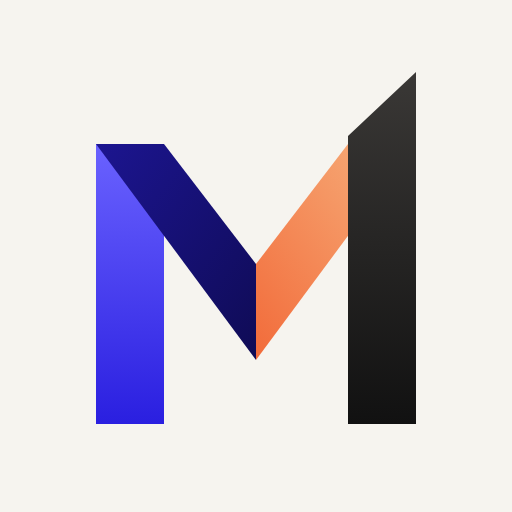
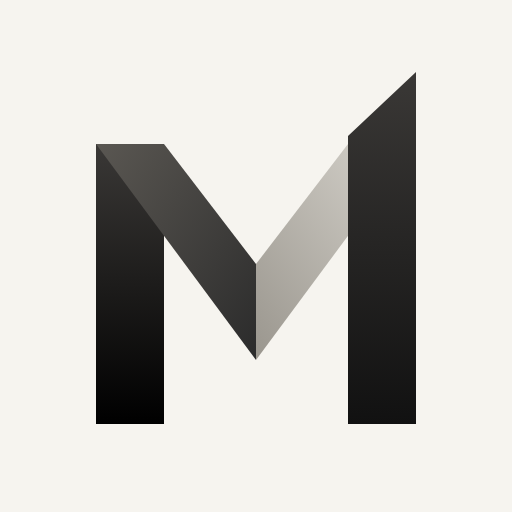
Max Marketing: go strictly black and white
Replace all colour accents with ink black, white and greys: highlight
words, chrome 3D blob, graphite shader field, path tiles, team shapes,
deliverable cards, inverted promise band, 404 and the logo/brand PNGs.

Claude-Session: https://claude.ai/code/session_015zP6EYRXjoebpqSR4X5BJk

Changed region(s): [[0.1875, 0.2812, 0.6875, 0.8438]]

diff --git a/max-marketing-site/index.html b/max-marketing-site/index.html
@@ -18,11 +18,11 @@
 <link rel="preconnect" href="https://fonts.gstatic.com" crossorigin>
 <link href="https://fonts.googleapis.com/css2?family=Alexandria:wght@500;700;800&family=IBM+Plex+Sans+Arabic:wght@300;400;500;600&family=Space+Grotesk:wght@400;500;700&display=swap" rel="stylesheet">
 <style>
-/* Look: gallery-white paper, ink-black type, a watercolour field and a confetti of bold accents (electric blue, tangerine, butter, sky, blush, sage) */
+/* Look: strictly monochrome — gallery-white paper, ink-black type, greys for depth, a chrome blob over a soft graphite field */
 :root{
   --ink:#f6f4ef; --ink-2:#ffffff; --card:#ffffff; --line:rgba(17,17,17,.1);
-  --lime:#3b2ff5; --mint:#f26b3a; --teal:#6cb8ec;
-  --butter:#f3e38a; --blush:#f2c4d8; --peach:#f4b17a; --sage:#a8bf8a;
+  --lime:#8a8680; --mint:#2b2b2b; --teal:#c9c6be;
+  --butter:#ecebe6; --blush:#e3e1db; --peach:#d9d6cf; --sage:#c9c6be;
   --text:#111111; --mute:#6b6862;
   --glass:rgba(255,255,255,.6); --glass-hi:rgba(17,17,17,.08);
   --d-ar:"Alexandria","IBM Plex Sans Arabic",Tahoma,sans-serif;
@@ -37,7 +37,7 @@ html[lang=en] body{font-family:var(--en)}
 html[lang=ar] [data-l=en],html[lang=en] [data-l=ar]{display:none!important}
 img{max-width:100%;display:block}
 a{color:inherit;text-decoration:none}
-:focus-visible{outline:2px solid var(--lime);outline-offset:3px;border-radius:8px}
+:focus-visible{outline:2px solid var(--text);outline-offset:3px;border-radius:8px}
 .wrap{max-width:1200px;margin-inline:auto;padding-inline:max(16px,env(safe-area-inset-left,0px))}
 .disp{font-family:var(--d-ar);font-weight:800;line-height:1.15;letter-spacing:-.01em;margin:0}
 html[lang=en] .disp{font-family:var(--en);font-weight:700;letter-spacing:-.035em}
@@ -79,8 +79,7 @@ html[lang=en] .sheet a{font-family:var(--en)}
 /* hero */
 .hero{min-height:100svh;display:flex;align-items:center;padding-top:120px;overflow:hidden}
 .hero h1{font-size:clamp(46px,7.4vw,112px)}
-.hero h1 .glass-word{display:inline-block;padding:0 .18em;border-radius:.28em;background:linear-gradient(180deg,rgba(255,255,255,.85),rgba(255,255,255,.45));
-  border:1px solid rgba(255,255,255,.9);-webkit-backdrop-filter:blur(10px);backdrop-filter:blur(10px);color:var(--lime);box-shadow:inset 0 1px 0 #fff,0 10px 30px rgba(59,47,245,.12)}
+.hero h1 .glass-word{display:inline-block;padding:0 .18em;border-radius:.28em;background:var(--text);border:0;color:#fff;box-shadow:0 14px 34px rgba(17,17,17,.18)}
 .hero p.lead{max-width:600px;font-size:clamp(17px,1.6vw,20px);color:#3d3b37;margin:26px 0 34px}
 .btns{display:flex;flex-wrap:wrap;gap:12px}
 .btn{display:inline-flex;align-items:center;gap:10px;padding:15px 26px;border-radius:999px;font-weight:600;font-size:16px;transition:transform .25s,box-shadow .25s}
@@ -111,11 +110,11 @@ html[lang=en] .mq-t{animation-name:mq-en}
 @media (max-width:620px){.grid{grid-template-columns:1fr}}
 .card{position:relative;padding:28px;border-radius:24px;background:var(--card);
   border:1px solid var(--line);overflow:hidden;transition:border-color .3s,transform .3s}
-.card::before{content:"";position:absolute;inset:-1px;background:radial-gradient(400px circle at var(--mx,50%) var(--my,0%),rgba(59,47,245,.07),transparent 45%);opacity:0;transition:opacity .3s;pointer-events:none}
+.card::before{content:"";position:absolute;inset:-1px;background:radial-gradient(400px circle at var(--mx,50%) var(--my,0%),rgba(17,17,17,.05),transparent 45%);opacity:0;transition:opacity .3s;pointer-events:none}
 .card:hover{border-color:rgba(17,17,17,.25);box-shadow:0 20px 50px rgba(17,17,17,.08);transform:translateY(-3px)}
 .card:hover::before{opacity:1}
 .card .ic{width:48px;height:48px;border-radius:14px;display:grid;place-items:center;background:var(--pc,var(--butter));color:var(--text);margin-bottom:22px}
-.card:nth-child(6n+2) .ic{--pc:var(--blush)}.card:nth-child(6n+3) .ic{--pc:var(--teal)}.card:nth-child(6n+4) .ic{--pc:var(--sage)}.card:nth-child(6n+5) .ic{--pc:var(--peach)}.card:nth-child(6n+6) .ic{--pc:#c9c2f5}
+.card:nth-child(6n+2) .ic{--pc:var(--blush)}.card:nth-child(6n+3) .ic{--pc:var(--teal)}.card:nth-child(6n+4) .ic{--pc:var(--sage)}.card:nth-child(6n+5) .ic{--pc:var(--peach)}.card:nth-child(6n+6) .ic{--pc:#111;color:#fff}
 .card h3{font-family:var(--d-ar);font-size:22px;margin:0 0 8px}
 html[lang=en] .card h3{font-family:var(--en)}
 .card p{margin:0;color:var(--mute);font-size:15.5px}
@@ -154,8 +153,8 @@ html[lang=en] .fc h4{font-family:var(--en)}
 .cal i::after{content:"";width:7px;height:7px;border-radius:50%;background:var(--d,transparent)}
 .lgd{display:flex;gap:12px;flex-wrap:wrap;color:var(--mute);font-size:12px}
 .lgd b{display:inline-block;width:8px;height:8px;border-radius:50%;margin-inline-end:6px;background:var(--d)}
-.fc.c{background:radial-gradient(120% 75% at 25% 10%,#f4b17a,#f2c4d8 35%,#3b2ff5 80%);padding:0;color:#fff}
-.fc.c::before{content:"";position:absolute;inset:0;background:radial-gradient(60% 40% at 70% 70%,rgba(108,184,236,.75),transparent 70%);animation:drift 7s ease-in-out infinite alternate}
+.fc.c{background:radial-gradient(120% 75% at 25% 10%,#f6f4ef,#9a968e 40%,#111 85%);padding:0;color:#fff}
+.fc.c::before{content:"";position:absolute;inset:0;background:radial-gradient(60% 40% at 70% 70%,rgba(255,255,255,.45),transparent 70%);animation:drift 7s ease-in-out infinite alternate}
 @keyframes drift{to{transform:translate(-18%,-22%) scale(1.2)}}
 .reel{position:relative;height:100%;padding:18px;display:flex;flex-direction:column;justify-content:space-between}
 .reel .top{display:flex;justify-content:space-between;align-items:center}
@@ -167,12 +166,12 @@ html[lang=en] .fc h4{font-family:var(--en)}
 .reel .cap span{height:8px;border-radius:4px;background:rgba(255,255,255,.75)}
 .reel .cap span+span{width:65%;background:rgba(255,255,255,.45)}
 .bars{flex:1;display:flex;align-items:flex-end;gap:8px;padding-top:10px;border-bottom:1px solid var(--line)}
-.bars i{flex:1;height:var(--v);border-radius:6px 6px 2px 2px;background:var(--bc,var(--lime));transform-origin:bottom;animation:grow 1.4s cubic-bezier(.2,.7,.2,1) both;animation-delay:calc(var(--n)*.08s)}
+.bars i{flex:1;height:var(--v);border-radius:6px 6px 2px 2px;background:var(--bc,#111);transform-origin:bottom;animation:grow 1.4s cubic-bezier(.2,.7,.2,1) both;animation-delay:calc(var(--n)*.08s)}
 @keyframes grow{from{transform:scaleY(.1)}}
 .kpi{display:grid;grid-template-columns:repeat(3,1fr);gap:8px}
 .kpi div{padding:8px;border-radius:10px;background:#f1efe9;color:var(--mute);font-size:11px}
-.kpi div b{display:block;height:6px;border-radius:3px;margin-top:6px;background:linear-gradient(90deg,var(--lime),transparent)}
-.bars i:nth-child(3n+2){--bc:var(--peach)}.bars i:nth-child(3n){--bc:var(--teal)}
+.kpi div b{display:block;height:6px;border-radius:3px;margin-top:6px;background:linear-gradient(90deg,#111,transparent)}
+.bars i:nth-child(3n+2){--bc:#9a968e}.bars i:nth-child(3n){--bc:#cfccc5}
 @media (max-width:620px){.fc.l{--x:-6%}.fc.r{--x:-6%}.fan{height:400px}}
 
 /* team — portraits in playful shapes */
@@ -184,7 +183,7 @@ html[lang=en] .fc h4{font-family:var(--en)}
 .shape{position:relative;aspect-ratio:4/5;background:var(--bg);display:grid;place-items:end center;overflow:hidden;transition:transform .5s cubic-bezier(.2,.7,.2,1)}
 .mate:hover .shape{transform:translateY(-6px) rotate(-1.5deg)}
 .shape img{width:100%;height:100%;object-fit:cover}
-.shape svg{width:72%;height:auto;color:rgba(17,17,17,.28);transform:translateY(8%)}
+.shape svg{width:72%;height:auto;color:var(--fg,rgba(17,17,17,.28));transform:translateY(8%)}
 .mate h3{margin:18px 0 4px;font-family:var(--d-ar);font-size:20px}
 html[lang=en] .mate h3{font-family:var(--en)}
 .mate p{margin:0;color:var(--mute);font-size:14px}
@@ -200,20 +199,20 @@ html[lang=en] .step h3{font-family:var(--en)}
 .step p{margin:0;color:var(--mute);font-size:15px}
 
 /* promise band */
-.band{border-radius:32px;padding:clamp(28px,5vw,56px);background:linear-gradient(135deg,var(--butter),#f7d7c2 55%,var(--blush));border:0;
+.band{border-radius:32px;padding:clamp(28px,5vw,56px);background:#111;color:#f6f4ef;border:0;
   display:grid;grid-template-columns:1.1fr 1fr;gap:36px;align-items:center}
 @media (max-width:820px){.band{grid-template-columns:1fr}}
 .band h2{font-size:clamp(30px,4vw,48px)}
 .band ul{list-style:none;margin:0;padding:0;display:grid;gap:12px}
-.band li{display:flex;gap:12px;align-items:flex-start;padding:14px 16px;border-radius:16px;background:rgba(255,255,255,.7);border:1px solid rgba(255,255,255,.9)}
-.band li b{color:var(--lime);font-family:var(--en)}
+.band li{display:flex;gap:12px;align-items:flex-start;padding:14px 16px;border-radius:16px;background:rgba(255,255,255,.06);border:1px solid rgba(255,255,255,.12)}
+.band li b{color:#fff;font-family:var(--en)}
 
 /* faq */
 .faq{max-width:860px;margin-inline:auto}
 details{border-bottom:1px solid var(--line);padding:6px 0}
 summary{list-style:none;cursor:pointer;display:flex;justify-content:space-between;gap:16px;padding:18px 0;font-size:19px;font-weight:600}
 summary::-webkit-details-marker{display:none}
-summary::after{content:"+";font-family:var(--en);color:var(--lime);font-size:24px;line-height:1;transition:transform .3s}
+summary::after{content:"+";font-family:var(--en);color:var(--text);font-size:24px;line-height:1;transition:transform .3s}
 details[open] summary::after{transform:rotate(45deg)}
 details p{margin:0 0 18px;color:var(--mute)}
 
@@ -227,17 +226,17 @@ details p{margin:0 0 18px;color:var(--mute)}
 .form input,.form select,.form textarea{font:inherit;color:var(--text);background:#f6f4ef;border:1px solid var(--line);border-radius:14px;padding:13px 14px;width:100%}
 .form select option{background:#fff}
 .form textarea{min-height:110px;resize:vertical}
-.form input:focus,.form select:focus,.form textarea:focus{outline:none;border-color:var(--lime)}
+.form input:focus,.form select:focus,.form textarea:focus{outline:none;border-color:var(--text)}
 .chips{display:flex;flex-wrap:wrap;gap:8px}
 .chips label{display:block}
 .chips input{position:absolute;opacity:0;width:1px;height:1px}
 .chips span{display:inline-block;padding:8px 14px;border-radius:999px;border:1px solid var(--line);font-size:14px;color:var(--text);cursor:pointer;transition:.2s}
 .chips input:checked+span{background:var(--text);color:#fff;border-color:var(--text)}
-.chips input:focus-visible+span{outline:2px solid var(--lime);outline-offset:2px}
+.chips input:focus-visible+span{outline:2px solid var(--text);outline-offset:2px}
 .form .btn{justify-content:center;border:0;cursor:pointer;font:inherit;font-weight:600}
 .direct{display:grid;gap:10px;margin-top:28px}
 .direct a{display:flex;align-items:center;gap:12px;padding:14px 18px;border-radius:16px;border:1px solid var(--line);background:var(--card);transition:border-color .25s}
-.direct a:hover{border-color:var(--lime)}
+.direct a:hover{border-color:var(--text)}
 .direct small{color:var(--mute);display:block;font-size:12px}
 
 footer{border-top:1px solid var(--line);padding:32px 0 calc(32px + env(safe-area-inset-bottom,0px));color:var(--mute);font-size:14px}
@@ -249,9 +248,9 @@ footer .wrap{display:flex;justify-content:space-between;gap:16px;flex-wrap:wrap;
 .pre.done{clip-path:inset(0 0 100% 0);pointer-events:none}
 .pre .pc{font-family:var(--en);font-size:clamp(64px,14vw,180px);font-weight:700;letter-spacing:-.05em;line-height:1}
 .pre .pb{position:absolute;bottom:40px;left:16px;right:16px;height:2px;background:var(--line)}
-.pre .pb i{display:block;height:100%;width:0;background:var(--lime);transition:width .2s}
+.pre .pb i{display:block;height:100%;width:0;background:var(--text);transition:width .2s}
 .pre .lg{width:72px;height:auto;animation:lgp 1.1s ease-in-out infinite alternate}
-@keyframes lgp{to{transform:translateY(-8px) scale(1.06);filter:drop-shadow(0 10px 30px rgba(59,47,245,.35))}}
+@keyframes lgp{to{transform:translateY(-8px) scale(1.06);filter:drop-shadow(0 10px 30px rgba(17,17,17,.25))}}
 .pre .pl{position:absolute;top:30px;font-family:var(--en);letter-spacing:.3em;font-size:12px;color:var(--mute)}
 
 /* 3D hero object */
@@ -284,7 +283,7 @@ html[lang=en] .hpanel h3{font-family:var(--en)}
 .hpanel p{margin:0;color:var(--mute);max-width:380px}
 .hpanel .glow{position:absolute;width:320px;height:320px;border-radius:50%;filter:blur(60px);opacity:.45;top:-80px;inset-inline-start:-80px;background:var(--c,var(--lime))}
 .hprog{position:absolute;bottom:32px;left:50%;transform:translateX(-50%);width:min(320px,60vw);height:2px;background:var(--line);border-radius:2px;overflow:hidden}
-.hprog i{display:block;height:100%;width:100%;background:var(--lime);transform:scaleX(0);transform-origin:right}
+.hprog i{display:block;height:100%;width:100%;background:var(--text);transform:scaleX(0);transform-origin:right}
 html[lang=en] .hprog i{transform-origin:left}
 @media (max-width:760px),(prefers-reduced-motion:reduce){
   #process{padding-block:72px}
@@ -295,10 +294,10 @@ html[lang=en] .hprog i{transform-origin:left}
 }
 
 /* cursor */
-.cur{position:fixed;top:0;left:0;z-index:120;width:14px;height:14px;margin:-7px 0 0 -7px;border-radius:50%;background:var(--lime);pointer-events:none;
+.cur{position:fixed;top:0;left:0;z-index:120;width:14px;height:14px;margin:-7px 0 0 -7px;border-radius:50%;background:#fff;pointer-events:none;mix-blend-mode:difference;
   transition:width .3s,height .3s,margin .3s,background .3s;display:grid;place-items:center;font-family:var(--en);font-size:11px;font-weight:700;color:#fff;letter-spacing:.1em;opacity:.92}
 .cur.big{width:64px;height:64px;margin:-32px 0 0 -32px}
-.cur.drag{width:84px;height:84px;margin:-42px 0 0 -42px;mix-blend-mode:normal}
+.cur.drag{width:84px;height:84px;margin:-42px 0 0 -42px;mix-blend-mode:normal;background:#111}
 @media (pointer:coarse){.cur{display:none}}
 
 /* reveal */
@@ -399,7 +398,7 @@ html[lang=en] .hprog i{transform-origin:left}
           <small>CONTENT PLAN</small>
           <h4><span data-l="ar">خطة الشهر</span><span data-l="en">This month's plan</span></h4>
           <div class="cal" id="cal"></div>
-          <div class="lgd"><span style="--d:#3b2ff5"><b></b><span data-l="ar">ريلز</span><span data-l="en">Reel</span></span><span style="--d:#f26b3a"><b></b><span data-l="ar">بوست</span><span data-l="en">Post</span></span><span style="--d:#6cb8ec"><b></b><span data-l="ar">ستوري</span><span data-l="en">Story</span></span></div>
+          <div class="lgd"><span style="--d:#111"><b></b><span data-l="ar">ريلز</span><span data-l="en">Reel</span></span><span style="--d:#9a968e"><b></b><span data-l="ar">بوست</span><span data-l="en">Post</span></span><span style="--d:#cfccc5"><b></b><span data-l="ar">ستوري</span><span data-l="en">Story</span></span></div>
         </article>
         <article class="fc c">
           <div class="reel">
@@ -435,7 +434,7 @@ html[lang=en] .hprog i{transform-origin:left}
     </div>
     <div class="pm" id="pm" data-drag role="region" aria-label="Channels and services">
       <div class="pm-box" id="pmBox">
-        <svg viewBox="0 0 996 330" aria-hidden="true"><defs><linearGradient id="pmG" x1="0" x2="1"><stop offset="0" stop-color="#6cb8ec"/><stop offset="1" stop-color="#f26b3a"/></linearGradient></defs>
+        <svg viewBox="0 0 996 330" aria-hidden="true"><defs><linearGradient id="pmG" x1="0" x2="1"><stop offset="0" stop-color="#111"/><stop offset="1" stop-color="#9a968e"/></linearGradient></defs>
           <path class="pm-glow" d="M1 209.434C58.5872 255.935 387.926 325.938 482.583 209.434C600.905 63.8051 525.516 -43.2211 427.332 19.9613C329.149 83.1436 352.902 242.723 515.041 267.302C644.752 286.966 943.56 181.94 995 156.5"/><path class="pm-line" id="pmLine" d="M1 209.434C58.5872 255.935 387.926 325.938 482.583 209.434C600.905 63.8051 525.516 -43.2211 427.332 19.9613C329.149 83.1436 352.902 242.723 515.041 267.302C644.752 286.966 943.56 181.94 995 156.5"/></svg>
       </div>
     </div>
@@ -586,7 +585,7 @@ const MQ = [T("سوشيال ميديا","Social Media"),T("ريلز","Reels"),T(
 
 const $ = id => document.getElementById(id);
 $("svc").innerHTML = SERVICES.map(([ic,h,p],i)=>`<article class="card rv"><span class="n">0${i+1}</span><div class="ic"><svg width="24" height="24" viewBox="0 0 24 24" fill="none" stroke="currentColor" stroke-width="1.8" stroke-linejoin="round" stroke-linecap="round">${ICON[ic]}</svg></div><h3>${both(h)}</h3><p>${both(p)}</p></article>`).join("");
-const GLOW = ["#3b2ff5","#f26b3a","#6cb8ec","#f3e38a"];
+const GLOW = ["#111","#9a968e","#cfccc5","#5a5752"];
 $("htrack").insertAdjacentHTML("beforeend", STEPS.map(([h,p],i)=>`<article class="hpanel" style="--c:${GLOW[i]}"><span class="glow"></span><span class="big">0${i+1}</span><h3>${both(h)}</h3><p>${both(p)}</p></article>`).join(""));
 $("promise").innerHTML = PROMISE.map(x=>`<li>${both(x)}</li>`).join("");
 $("faqList").innerHTML = FAQ.map(([q,a])=>`<details class="rv"><summary>${both(q)}</summary><p>${both(a)}</p></details>`).join("");
@@ -655,17 +654,17 @@ $("leadForm").addEventListener("submit", e => {
 });
 
 /* deliverables calendar: a believable month of reels / posts / stories */
-$("cal").innerHTML = Array.from({length:28}, (_, i) => `<i style="--d:${["#3b2ff5","","#f26b3a","","#6cb8ec","#f26b3a",""][(i * 3 + (i >> 3)) % 7] || "transparent"}"></i>`).join("");
+$("cal").innerHTML = Array.from({length:28}, (_, i) => `<i style="--d:${["#111","","#9a968e","","#cfccc5","#9a968e",""][(i * 3 + (i >> 3)) % 7] || "transparent"}"></i>`).join("");
 
 /* team: drop a photo path into `photo` and it replaces the silhouette */
 const TEAM = [
-  {shape:"sh-8",    bg:"#3b2ff5", role:T("مدير الحسابات","Account Manager"),      sub:T("يمسك خطتك من أول يوم","Owns your plan from day one"), photo:""},
-  {shape:"sh-arch", bg:"#f4b17a", role:T("صانع المحتوى","Content Creator"),       sub:T("أفكار وسكربتات وريلز","Ideas, scripts and reels"), photo:""},
-  {shape:"sh-pill", bg:"#f3e38a", role:T("المصمم","Graphic Designer"),            sub:T("هوية وبوستات وموشن","Identity, posts and motion"), photo:""},
-  {shape:"sh-wave", bg:"#6cb8ec", role:T("خبير الإعلانات","Ads Specialist"),      sub:T("استهداف وتحسين يومي","Targeting and daily tuning"), photo:""}
+  {shape:"sh-8",    bg:"#111", fg:"rgba(255,255,255,.3)", role:T("مدير الحسابات","Account Manager"),      sub:T("يمسك خطتك من أول يوم","Owns your plan from day one"), photo:""},
+  {shape:"sh-arch", bg:"#d9d6cf", role:T("صانع المحتوى","Content Creator"),       sub:T("أفكار وسكربتات وريلز","Ideas, scripts and reels"), photo:""},
+  {shape:"sh-pill", bg:"#ecebe6", role:T("المصمم","Graphic Designer"),            sub:T("هوية وبوستات وموشن","Identity, posts and motion"), photo:""},
+  {shape:"sh-wave", bg:"#2b2b2b", fg:"rgba(255,255,255,.3)", role:T("خبير الإعلانات","Ads Specialist"),      sub:T("استهداف وتحسين يومي","Targeting and daily tuning"), photo:""}
 ];
 const SILHOUETTE = '<svg viewBox="0 0 24 24" fill="currentColor" aria-hidden="true"><circle cx="12" cy="8" r="4.2"/><path d="M3.5 22c0-4.7 3.8-8 8.5-8s8.5 3.3 8.5 8z"/></svg>';
-$("crew").innerHTML = TEAM.map(m => `<article class="mate rv"><div class="shape" style="clip-path:url(#${m.shape});--bg:${m.bg}">${m.photo ? `<img src="${m.photo}" alt="" loading="lazy">` : SILHOUETTE}</div><h3>${both(m.role)}</h3><p>${both(m.sub)}</p></article>`).join("");
+$("crew").innerHTML = TEAM.map(m => `<article class="mate rv"><div class="shape" style="clip-path:url(#${m.shape});--bg:${m.bg}${m.fg ? `;--fg:${m.fg}` : ""}">${m.photo ? `<img src="${m.photo}" alt="" loading="lazy">` : SILHOUETTE}</div><h3>${both(m.role)}</h3><p>${both(m.sub)}</p></article>`).join("");
 document.querySelectorAll("#crew .rv").forEach(el => io.observe(el));
 
 /* ===== Marquee along an SVG path: drifts, slows on hover, drags, speeds up with scroll ===== */
@@ -687,7 +686,7 @@ document.querySelectorAll("#crew .rv").forEach(el => io.observe(el));
     chart:'<path d="M4 20V11M10 20V5M16 20v-6M2 20h20"/>',
     camera:'<path d="M4 8h3l2-3h6l2 3h3a1 1 0 0 1 1 1v10a1 1 0 0 1-1 1H4a1 1 0 0 1-1-1V9a1 1 0 0 1 1-1z"/><circle cx="12" cy="13" r="4"/>'
   };
-  const C = [["#e2452f","#111"],["#6fb7b9","#111"],["#f2c4d8","#111"],["#a8bf8a","#111"],["#2547a8","#fff"],["#e0a87c","#111"],["#b8a7d9","#111"],["#efece4","#111"],["#f3e38a","#111"]];
+  const C = [["#111","#fff"],["#ffffff","#111"],["#d9d6cf","#111"],["#2b2b2b","#fff"],["#ecebe6","#111"],["#9a968e","#fff"]];
   const ITEMS = [["instagram","Instagram"],["video",T("ريلز","Reels")],["tiktok","TikTok"],["spark",T("موشن جرافيك","Motion")],["snap","Snapchat"],["megaphone",T("إعلانات ممولة","Paid ads")],
     ["google","Google Ads"],["pen",T("هوية بصرية","Branding")],["youtube","YouTube"],["camera",T("تصوير","Production")],["meta","Meta"],["chart",T("تقارير","Reports")],["x","X"],["whatsapp","WhatsApp"]];
   const L = $("pmLine").getTotalLength(), copies = Math.max(1, Math.round(L / 80 / ITEMS.length));
@@ -735,7 +734,7 @@ document.querySelectorAll("#crew .rv").forEach(el => io.observe(el));
 /* ===== Liquid shader background ===== */
 (() => {
   const c = $("field"), gl = c.getContext("webgl", {antialias:false, premultipliedAlpha:false});
-  if (!gl){ c.style.background = "radial-gradient(80% 60% at 70% 20%,#dbe6ef,#f6f4ef 70%)"; return; }
+  if (!gl){ c.style.background = "radial-gradient(80% 60% at 70% 20%,#e4e2dc,#f6f4ef 70%)"; return; }
   const vs = "attribute vec2 p;void main(){gl_Position=vec4(p,0.,1.);}";
   const fs = `precision mediump float;uniform vec2 r;uniform float t;uniform vec2 m;
   float h(vec2 p){return fract(sin(dot(p,vec2(127.1,311.7)))*43758.5453);}
@@ -748,11 +747,10 @@ document.querySelectorAll("#crew .rv").forEach(el => io.observe(el));
     vec2 q=vec2(fbm(p+tt),fbm(p+vec2(5.2,1.3)-tt));
     vec2 w=vec2(fbm(p+3.*q+vec2(1.7,9.2)+tt*1.4),fbm(p+3.*q+vec2(8.3,2.8)-tt));
     float f=fbm(p+3.5*w);
-    vec3 paper=vec3(.965,.957,.937), sand=vec3(.93,.87,.77), sky=vec3(.70,.82,.93), blush=vec3(.96,.78,.80), peach=vec3(.97,.74,.55);
-    vec3 col=mix(paper,sand,smoothstep(.3,.8,f)*.8);
-    col=mix(col,sky,smoothstep(.5,.95,length(w)*f)*.85);
-    col=mix(col,blush,smoothstep(.7,1.0,f+.2*w.y)*.6);
-    col=mix(col,peach,smoothstep(.82,1.08,f+.25*w.x)*.55);
+    vec3 paper=vec3(.965,.957,.937), mist=vec3(.89,.88,.86), ash=vec3(.80,.79,.77), graphite=vec3(.62,.61,.59);
+    vec3 col=mix(paper,mist,smoothstep(.3,.8,f));
+    col=mix(col,ash,smoothstep(.55,.95,length(w)*f)*.8);
+    col=mix(col,graphite,smoothstep(.85,1.1,f+.25*w.x)*.45);
     col=mix(paper,col,.45+.55*smoothstep(1.5,.1,length(uv-vec2(.35,.25))));
     gl_FragColor=vec4(col,1.);
   }`;
@@ -913,9 +911,9 @@ if (renderer){
       vec3 p=position+normal*d;vec4 mv=modelViewMatrix*vec4(p,1.);vN=normalize(normalMatrix*normal);vV=-mv.xyz;gl_Position=projectionMatrix*mv;}`,
     fragmentShader: `varying vec3 vN,vV;varying float vD;uniform float uT;
       void main(){vec3 n=normalize(vN),v=normalize(vV);float f=pow(1.-max(dot(n,v),0.),2.2);
-      vec3 deep=vec3(.08,.05,.42),blue=vec3(.23,.18,.96),blush=vec3(.95,.77,.85),peach=vec3(.96,.62,.40);
+      vec3 deep=vec3(.03),mid=vec3(.28),light=vec3(.86);
       float k=.5+.5*sin(vD*9.+uT*.6+n.y*3.);
-      vec3 c=mix(deep,blue,.35+.65*k);c=mix(c,blush,smoothstep(.25,1.,f)*.8);c+=peach*pow(f,4.)*.5;
+      vec3 c=mix(deep,mid,.2+.8*k);c=mix(c,light,smoothstep(.25,1.,f)*.85);c+=vec3(.6)*pow(f,4.)*.4;
       vec3 L=normalize(vec3(.6,.8,.5));float s=pow(max(dot(reflect(-L,n),v),0.),40.);c+=vec3(1.)*s*.6;
       gl_FragColor=vec4(c,1.);}`
   }));
@@ -927,7 +925,7 @@ if (renderer){
 
   /* orbiting satellites = channels */
   const sats = Array.from({length:5}, (_, i) => {
-    const m = new THREE.Mesh(new THREE.IcosahedronGeometry(.11 + (i%2)*.05, 2), new THREE.MeshBasicMaterial({color: [0xf26b3a,0xf3e38a,0x6cb8ec,0xf2c4d8,0x3b2ff5][i]}));
+    const m = new THREE.Mesh(new THREE.IcosahedronGeometry(.11 + (i%2)*.05, 2), new THREE.MeshBasicMaterial({color: [0x111111,0x9a968e,0x111111,0xcfccc5,0x444444][i]}));
     scene.add(m); return {m, r: 2.1 + (i%2)*.45, s: .25 + i*.07, o: i*1.3};
   });
 

diff --git a/max-marketing-site/404.html b/max-marketing-site/404.html
@@ -11,9 +11,9 @@
 <link rel="preconnect" href="https://fonts.gstatic.com" crossorigin>
 <link href="https://fonts.googleapis.com/css2?family=Alexandria:wght@700;800&family=IBM+Plex+Sans+Arabic:wght@400;500;600&family=Space+Grotesk:wght@500;700&display=swap" rel="stylesheet">
 <style>
-/* Oversized 404 numeral on gallery-white paper with soft watercolour blooms */
+/* Oversized 404 numeral, strictly black and white */
 :root{
-  --ink:#f6f4ef; --line:rgba(17,17,17,.1); --lime:#3b2ff5; --mint:#f26b3a; --teal:#6cb8ec;
+  --ink:#f6f4ef; --line:rgba(17,17,17,.1); --lime:#111111; --mint:#8a8680; --teal:#cfccc5;
   --text:#111111; --mute:#6b6862; --glass-hi:rgba(17,17,17,.14);
   --d-ar:"Alexandria","IBM Plex Sans Arabic",Tahoma,sans-serif;
   --b-ar:"IBM Plex Sans Arabic",Tahoma,"Segoe UI",sans-serif;
@@ -29,7 +29,7 @@ a{color:inherit;text-decoration:none}
 :focus-visible{outline:2px solid var(--lime);outline-offset:3px;border-radius:999px}
 
 .blob{position:fixed;width:70vmax;height:70vmax;border-radius:50%;filter:blur(90px);opacity:.5;pointer-events:none;
-  background:conic-gradient(from 0deg,#bcd6ec,#f2c4d8,#f4b17a,#f3e38a,#bcd6ec);animation:spin 18s linear infinite}
+  background:conic-gradient(from 0deg,#d9d6cf,#f6f4ef,#9a968e,#ecebe6,#d9d6cf);animation:spin 18s linear infinite}
 .blob.a{top:-35vmax;inset-inline-start:-20vmax}
 .blob.b{bottom:-40vmax;inset-inline-end:-25vmax;opacity:.4;animation-duration:26s;animation-direction:reverse}
 @keyframes spin{to{transform:rotate(1turn)}}
@@ -39,9 +39,9 @@ main{position:relative;z-index:1;max-width:620px;text-align:center;display:flex;
 .logo img{width:24px;height:26px}
 .num{font-family:var(--en);font-weight:700;font-size:clamp(9rem,34vw,17rem);line-height:.9;letter-spacing:-.08em;font-variant-numeric:tabular-nums;
   user-select:none;direction:ltr;margin:0;display:flex}
-.num span{display:inline-block;background:linear-gradient(170deg,#111 0%,#111 40%,var(--lime) 100%);-webkit-background-clip:text;background-clip:text;color:transparent;
+.num span{display:inline-block;background:linear-gradient(170deg,#111 0%,#111 45%,#8a8680 100%);-webkit-background-clip:text;background-clip:text;color:transparent;
   filter:drop-shadow(0 20px 40px rgba(17,17,17,.12));animation:float 4s ease-in-out infinite}
-.num span:nth-child(2){animation-delay:-.6s;-webkit-text-stroke:2px var(--mint);background:none;color:transparent}
+.num span:nth-child(2){animation-delay:-.6s;-webkit-text-stroke:2px #111;background:none;color:transparent}
 .num span:nth-child(3){animation-delay:-1.2s}
 @keyframes float{50%{transform:translateY(-14px) rotate(-2deg)}}
 h1{font-family:var(--d-ar);font-weight:800;font-size:clamp(26px,4.5vw,36px);line-height:1.3;margin:-4px 0 0}
